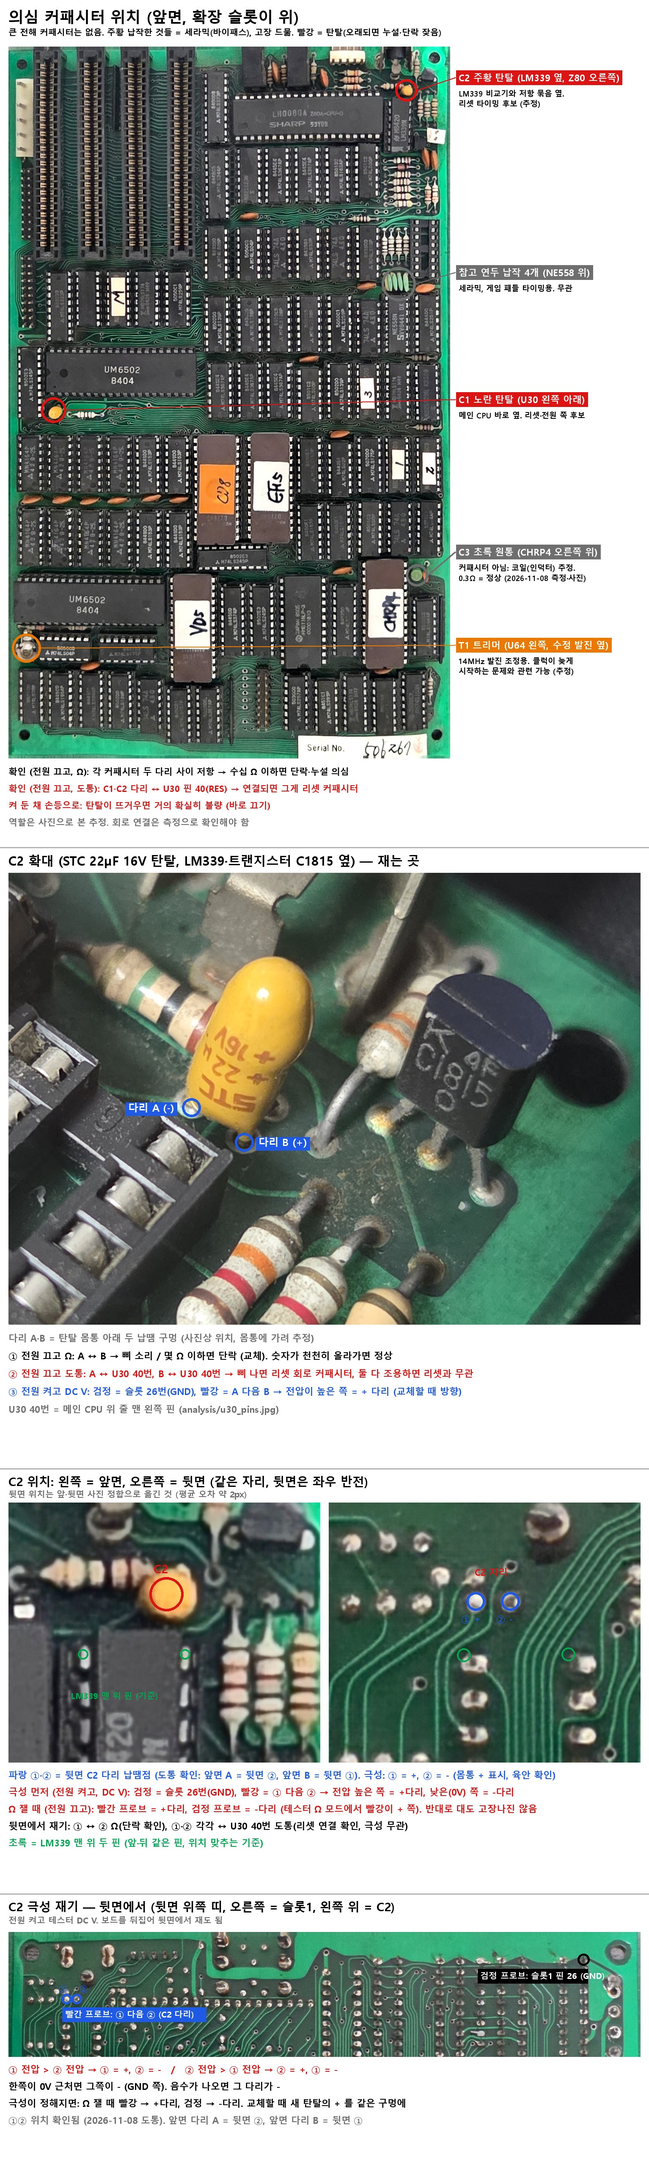
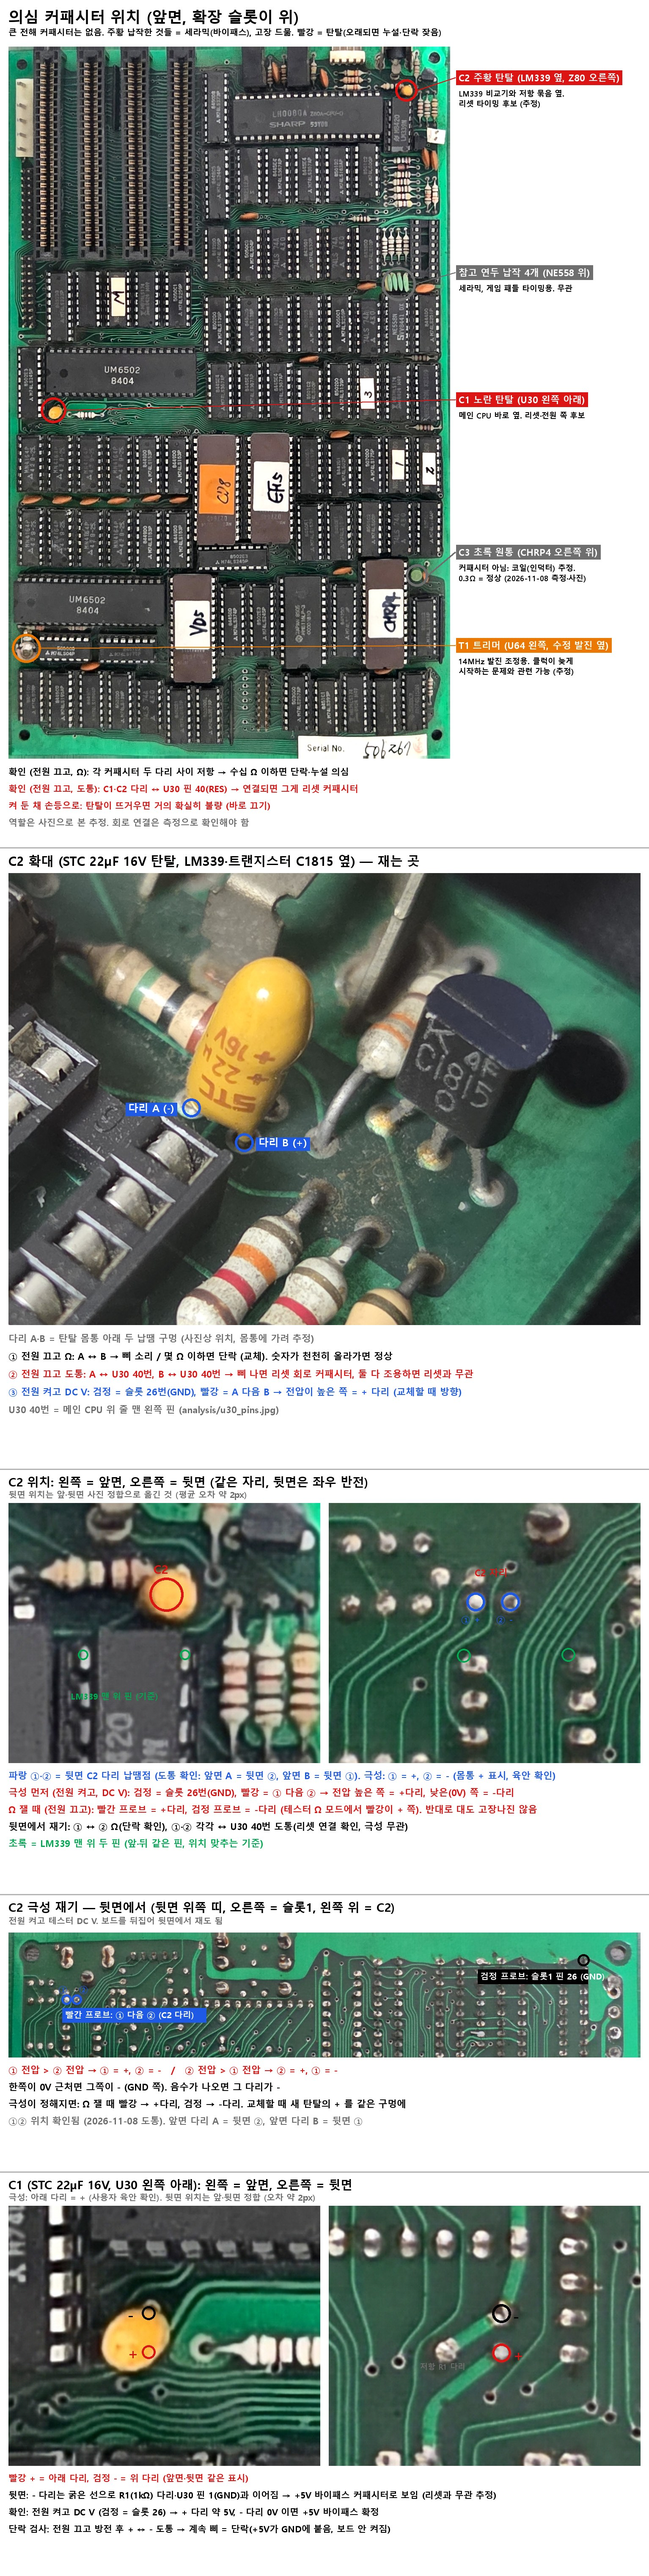
capacitor_suspects 맨 아래에 C1 앞·뒷면 극성(아래 +, 위 -) 표시, 뒷면 - 다리가 굵은 선으로 R1·GND와 연결 → +5V 바이패스 추정

diff --git a/tools/annotate_capacitors.py b/tools/annotate_capacitors.py
@@ -167,5 +167,46 @@ for i, (t, c) in enumerate([
 ]):
     d.text((20, y + i * 40), t, font=F(22), fill=c)
 cv = full
+
+# --- 맨 아래: C1 앞면·뒷면 (U30 왼쪽 아래 탄탈) ---
+CB = reg["back_to_front"]
+def b2f(x, y):
+    u, v = x / 1000, y / 1000
+    t = [1, u, v, u * u, u * v, v * v, u ** 3, u * u * v, u * v * v, v ** 3]
+    return sum(c[0] * w for c, w in zip(CB, t)), sum(c[1] * w for c, w in zip(CB, t))
+FX, FY = 100, 1600
+bx, by = f2b(FX + W0 / 2, FY + H0 / 2)
+BX, BY = int(bx) - W0 // 2, int(by) - H0 // 2
+fcrop = fr.crop((FX, FY, FX + W0, FY + H0)).resize((int(W0 * K), int(H0 * K)), Image.LANCZOS)
+bcrop = bk.crop((BX, BY, BX + W0, BY + H0)).resize((int(W0 * K), int(H0 * K)), Image.LANCZOS)
+full = Image.new("RGB", (cv.width, cv.height + SEC + fcrop.height + 260), "white")
+full.paste(cv, (0, 0))
+oy = cv.height + SEC
+full.paste(fcrop, (20, oy)); full.paste(bcrop, (40 + fcrop.width, oy))
+d = ImageDraw.Draw(full)
+d.line((0, cv.height + 10, cv.width, cv.height + 10), fill=(180, 180, 180), width=3)
+d.text((20, cv.height + 20), "C1 (STC 22µF 16V, U30 왼쪽 아래): 왼쪽 = 앞면, 오른쪽 = 뒷면", font=F(28), fill=BLK)
+d.text((20, cv.height + 56), "극성: 아래 다리 = + (사용자 육안 확인). 뒷면 위치는 앞·뒷면 정합 (오차 약 2px)", font=F(20), fill=GRY)
+def fp(x, y): return 20 + (x - FX) * K, oy + (y - FY) * K
+def bp(x, y): return 40 + fcrop.width + (x - BX) * K, oy + (y - BY) * K
+C1LEGS = [((BX + 665 / 4, BY + 415 / 4), "-", BLK), ((BX + 665 / 4, BY + 565 / 4), "+", RED)]   # 뒷면 납땜점
+for (x, y), sgn, col in C1LEGS:
+    px, py = bp(x, y)
+    d.ellipse((px - 22, py - 22, px + 22, py + 22), outline=col, width=6)
+    d.text((px + 28, py - 18), sgn, font=F(34), fill=col)
+    qx, qy = fp(*b2f(x, y))
+    d.ellipse((qx - 16, qy - 16, qx + 16, qy + 16), outline=col, width=5)
+    d.text((qx - 50, qy - 20), sgn, font=F(34), fill=col)
+rx, ry = bp(BX + 450 / 4, BY + 555 / 4)
+d.text((rx - 60, ry + 26), "저항 R1 다리", font=F(18), fill=GRY)
+y = oy + fcrop.height + 14
+for i, (t, c) in enumerate([
+    ("빨강 + = 아래 다리, 검정 - = 위 다리 (앞면·뒷면 같은 표시)", RED),
+    ("뒷면: - 다리는 굵은 선으로 R1(1kΩ) 다리·U30 핀 1(GND)과 이어짐 → +5V 바이패스 커패시터로 보임 (리셋과 무관 추정)", BLK),
+    ("확인: 전원 켜고 DC V (검정 = 슬롯 26) → + 다리 약 5V, - 다리 0V 이면 +5V 바이패스 확정", BLK),
+    ("단락 검사: 전원 끄고 방전 후 + ↔ - 도통 → 계속 삐 = 단락(+5V가 GND에 붙음, 보드 안 켜짐)", BLK),
+]):
+    d.text((20, y + i * 40), t, font=F(21), fill=c)
+cv = full
 cv.save(OUT, quality=88)
 print(cv.size)
